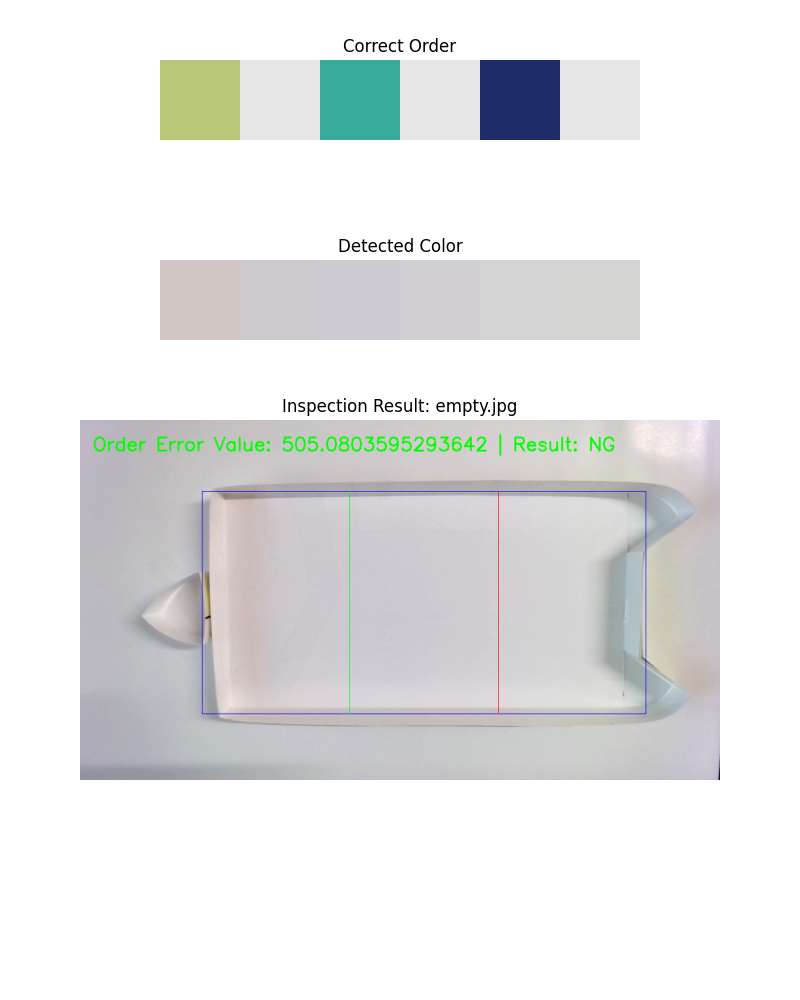
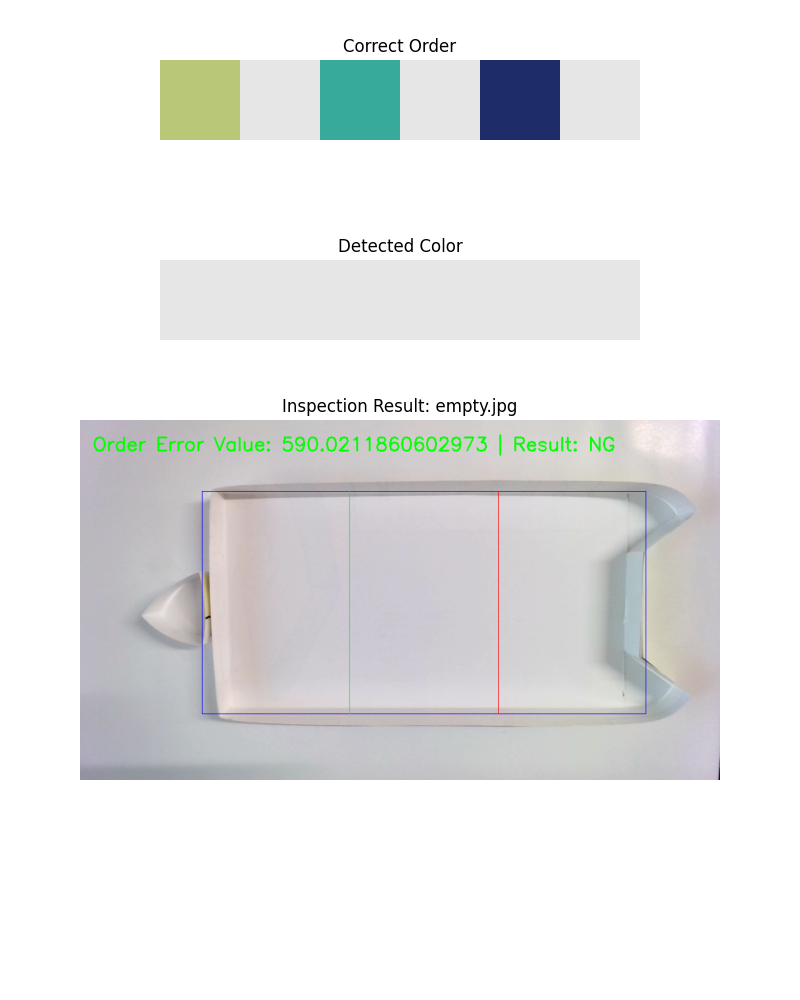
add insp km3LandP

Changed region(s): [[0.1875, 0.248, 0.5, 0.341], [0.375, 0.434, 0.625, 0.465]]

diff --git a/tissue_insp_km3Predict.py b/tissue_insp_km3Predict.py
@@ -1,0 +1,173 @@
+import cv2,os
+import numpy as np
+import pickle
+from sklearn.cluster import KMeans
+# from keras.api.applications import MobileNetV2
+# from keras.src.utils.image_utils import img_to_array
+# from keras.models import load_model
+import matplotlib.pyplot as plt
+
+# 定数設定
+IMG_WIDTH, IMG_HEIGHT = 1024, 576
+MODEL_PATH = "model_km3_Cdora.pkl"  # 事前学習済みの正解モデル
+DIST_TH = 100   # OK/NG判定基準
+
+# 検査する画像（入力）
+IMAGE_PATH = "./my_dir/tis_insp/Input/test_dra2.jpg"  # テスト画像
+
+# 正しい順番（黄緑/白、水色/白、紺色/白）と比較  250306
+CORRECT_ORDER = [
+    #spl
+    # ((120, 200, 185), (230, 230, 230)),  # 黄緑/白
+    # ((155, 170, 55), (230, 230, 230)),  # 水色/白
+    # ((105, 45, 30), (230, 230, 230))     # 紺色/白
+    #dora
+    ((129, 171, 171), (214, 217, 226)),
+    ((191, 184, 130), (220, 220, 227)),
+    ((152, 157, 234), (218, 228, 235))
+]
+
+#ティッシュ色領域サイズ・座標
+TIS_W = 710
+TIS_H = 355
+W_L_EG = 195
+W_R_EG = W_L_EG + TIS_W
+H_T_EG = 115
+H_B_EG = H_T_EG + TIS_H
+
+
+
+# 学習済みモデルの読み込み
+with open(MODEL_PATH, "rb") as f:
+    kmeans = pickle.load(f)
+
+def get_dominant_colors(image):
+    """ 画像の主要色を取得 """
+    pixels = image.reshape(-1, 3)
+    labels = kmeans.predict(pixels)
+
+    #最も多く出現する色を主要色とする
+    counts = np.bincount(labels) 
+    main_color = kmeans.cluster_centers_[np.argmax(counts)].astype(int)
+
+    return tuple(main_color)    #250305
+
+
+def check_tissue_order(image):
+    """ ティッシュの上下の色ペアを取得し、並び順をチェック """
+    h, w = TIS_H, TIS_W
+    third_w = w // 3
+    # half_h = h // 2  # 上下分割
+    half_tis_w = third_w // 2
+
+    wid_mid_eg = W_L_EG + third_w
+    wid_rit_eg = W_R_EG - third_w
+
+    # 3つのティッシュ領域を取得
+    tissues = [
+        image[H_T_EG:H_B_EG, W_L_EG:wid_mid_eg],       # 左
+        image[H_T_EG:H_B_EG, wid_mid_eg:wid_rit_eg],  # 中央
+        image[H_T_EG:H_B_EG, wid_rit_eg:W_R_EG]      # 右
+    ]
+
+    detected_colors = []
+    
+    for tissue in tissues:
+        # top_half = tissue[0:half_h, :]  # 上半分
+        # bottom_half = tissue[half_h:h, :]  # 下半分  #250304
+
+        top_half = tissue[:, 0:half_tis_w]  # ティッシュの上半分カラー
+        bottom_half = tissue[:, half_tis_w:third_w]  # ティッシュの下半分
+
+        # print("TOP: ",top_half)
+        # print("BOTTOM: ",bottom_half)
+
+        top_color = get_dominant_colors(top_half)         #250304
+        bottom_color = get_dominant_colors(bottom_half)   #250304
+
+        # detected_colors.append((tuple(top_color[0]), tuple(bottom_color[0])))
+        detected_colors.append((top_color, bottom_color))  # 1ペアのみ記録    #250305
+
+
+    # error = detected_colors != correct_order
+    error = sum(np.linalg.norm(np.array(detected_colors) - np.array(CORRECT_ORDER), axis=1))
+    error = np.linalg.norm(error)
+
+    return error, detected_colors
+
+# メイン処理
+def inspect_tissue(image_path):
+    # 画像を読み込む
+    image_bgr = cv2.imread(image_path)
+    if image_bgr is None:
+        print("画像が読み込めません")
+        return
+
+    target_name=os.path.basename(image_path)  #250221
+
+    # 画像を読み込んで判定
+    # image_resized = cv2.resize(image, (1024, 576))
+    error_num, detected_colors = check_tissue_order(image_bgr)  #250306
+    # error = error_num > DIST_TH     #250307
+
+    print("検出された色ペア:", convert_tuple(detected_colors) )   #250304
+
+    if error_num > DIST_TH:
+        error = "NG"
+    else:
+        error = "OK"
+
+    print("並び順エラー値:", error_num)
+    print("並び順 判定:", error)
+
+    # 結果を描画
+    #正規化(plt表示用)
+    color = np.array(convert_tuple(detected_colors), dtype=float) / 255
+    crct_order = np.array(convert_tuple(CORRECT_ORDER), dtype=float) / 255
+
+    #配列を1次元に
+    flat_color = np.array(color).reshape(-1,3)    #250304
+    flat_crct_order = np.array(crct_order).reshape(-1,3)    #250304
+
+    #BGR->RGB(plt表示用)
+    flat_crct_order_rgb = flat_crct_order[:,[2,1,0]]         #250306
+    flat_color_rgb = flat_color[:,[2,1,0]]         #250306
+
+    fig, ax = plt.subplots(3, 1, figsize=(8, 10))       #250306
+    ax[0].imshow([flat_crct_order_rgb])  # 1行の画像として表示    #250304
+    ax[0].axis("off")  # 軸を非表示
+    ax[0].set_title("Correct Order")
+    ax[0].set_position([0.2,0.6,0.6,0.6])
+
+    ax[1].imshow([flat_color_rgb])  # 1行の画像として表示    #250304
+    ax[1].axis("off")  # 軸を非表示
+    ax[1].set_title("Detected Color")
+    ax[1].set_position([0.2,0.4,0.6,0.6])
+
+
+    result_text = f"Order Error Value: {error_num} | Result: {error}" #250303, 向き: {orientation}"
+    imgcv2=cv2.putText(image_bgr, result_text, (20, 50), cv2.FONT_HERSHEY_SIMPLEX, 1, (0, 255, 0), 2)
+
+    img_rec=cv2.rectangle(image_bgr, (W_L_EG, H_T_EG), (W_R_EG, H_B_EG), (255, 0, 0))         #250304
+    img_lin1=cv2.line(image_bgr,( W_L_EG+TIS_W//3, H_T_EG),(W_L_EG+TIS_W//3,H_B_EG ),(0,255,0))
+    img_lin2=cv2.line(image_bgr,(W_R_EG-TIS_W//3, H_T_EG),(W_R_EG-TIS_W//3,H_B_EG),(0,0,255))
+    # img_tar=cv2.imshow("Inspection Result", image_bgr)
+    
+    ax[2].imshow(img_rec)
+    ax[2].imshow(img_lin1)
+    ax[2].imshow(img_lin2)
+    ax[2].imshow(image_bgr[:, :, [2,1,0]])
+    ax[2].set_title("Inspection Result: "+target_name)
+    ax[2].axis("off")
+    ax[2].set_position([0.1,0,0.8,0.8])
+    
+    plt.savefig("./my_dir/tis_insp/res_"+target_name+".png") #250221
+    plt.show()
+
+# 入れ子タプルをNp.int64など型表示をなくす処理
+def convert_tuple(tpl):
+    return tuple(convert_tuple(x) if isinstance(x, tuple) else int(x) for x in tpl)
+
+
+#メイン
+inspect_tissue(IMAGE_PATH)

diff --git a/tissue_insp_km3LearnC.py b/tissue_insp_km3LearnC.py
@@ -1,0 +1,141 @@
+import cv2,os
+import numpy as np
+import pickle
+from sklearn.cluster import KMeans
+# from keras.api.applications import MobileNetV2
+# from keras.src.utils.image_utils import img_to_array
+# from keras.models import load_model
+import matplotlib.pyplot as plt
+
+# 定数設定
+IMG_WIDTH, IMG_HEIGHT = 1024, 576
+MODEL_PATH = "model_km3_Cdora.pkl"  # 事前学習済みの正解モデル
+NUM_CLUSTERS = 2  # k-means で分類する色の数
+
+#ティッシュ色領域サイズ・座標
+TIS_W = 710
+TIS_H = 355
+W_L_EG = 195
+W_R_EG = W_L_EG + TIS_W
+H_T_EG = 115
+H_B_EG = H_T_EG + TIS_H
+
+# 検査する画像（入力）
+IMAGE_PATH = "./my_dir/tis_insp/Input/test_dra1.jpg"  # テスト画像
+
+
+""" 画像の主要色を取得 """
+def get_dominant_colors(image):
+
+    kmeans = KMeans(n_clusters=NUM_CLUSTERS, random_state=42, n_init=10)
+    pixels = image.reshape(-1, 3)
+    labels = kmeans.fit_predict(pixels)
+
+    #最も多く出現する色を主要色とする
+    counts = np.bincount(labels) 
+    main_color = kmeans.cluster_centers_[np.argmax(counts)].astype(int)
+
+    return tuple(main_color)    #250305
+
+
+def check_tissue_order(image):
+    """ ティッシュの上下の色ペアを取得し、並び順をチェック """
+    h, w = TIS_H, TIS_W
+    third_w = w // 3
+    # half_h = h // 2  # 上下分割
+    half_tis_w = third_w // 2
+
+    wid_mid_eg = W_L_EG + third_w
+    wid_rit_eg = W_R_EG - third_w
+
+    # 3つのティッシュ領域を取得
+    tissues = [
+        image[H_T_EG:H_B_EG, W_L_EG:wid_mid_eg],       # 左
+        image[H_T_EG:H_B_EG, wid_mid_eg:wid_rit_eg],  # 中央
+        image[H_T_EG:H_B_EG, wid_rit_eg:W_R_EG]      # 右
+    ]
+
+    detected_colors = []
+    
+    for tissue in tissues:
+        top_half = tissue[:, 0:half_tis_w]  # ティッシュの上半分カラー
+        bottom_half = tissue[:, half_tis_w:third_w]  # ティッシュの下半分
+
+        # print("TOP: ",top_half)
+        # print("BOTTOM: ",bottom_half)
+
+        top_color = get_dominant_colors(top_half)         #250304
+        bottom_color = get_dominant_colors(bottom_half)   #250304
+
+        # detected_colors.append((tuple(top_color[0]), tuple(bottom_color[0])))
+        detected_colors.append((top_color, bottom_color))  # 1ペアのみ記録    #250305
+
+    return detected_colors
+
+
+# 入れ子タプルをNp.int64など型表示をなくす処理
+def convert_tuple(tpl):
+    return tuple(convert_tuple(x) if isinstance(x, tuple) else int(x) for x in tpl)
+
+
+#メイン
+# 画像を読み込む
+image_bgr = cv2.imread(IMAGE_PATH)
+if image_bgr is None:
+    print("画像が読み込めません")
+    # return
+
+target_name=os.path.basename(IMAGE_PATH)
+
+# 画像を読み込んで判定
+detected_colors = check_tissue_order(image_bgr)  #250306
+
+# データを numpy 配列に変換
+X = np.array([color for pair in detected_colors for color in pair])
+
+# K-Means クラスタリングで学習
+kmeans = KMeans(n_clusters=6, random_state=42, n_init=5)
+kmeans.fit(X)
+
+# # 学習済みモデルを保存
+with open(MODEL_PATH, "wb") as f:
+    pickle.dump(kmeans, f)
+
+print("学習完了！モデルを保存しました。")
+
+
+#### 結果の表示 ####
+print("検出された色ペア:", convert_tuple(detected_colors) )   #250304
+
+#正規化(plt表示用)
+color = np.array(convert_tuple(detected_colors), dtype=float) / 255
+
+#配列を1次元に
+flat_color = np.array(color).reshape(-1,3)    #250304
+
+#BGR->RGB(plt表示用)
+flat_color_rgb = flat_color[:,[2,1,0]]         #250306
+
+# 結果を描画
+fig, ax = plt.subplots(2, 1, figsize=(8, 10))       #250306
+
+ax[0].imshow([flat_color_rgb])  # 1行の画像として表示    #250304
+ax[0].axis("off")  # 軸を非表示
+ax[0].set_title("Correct Color")
+ax[0].set_position([0.2,0.4,0.6,0.6])
+
+img_rec=cv2.rectangle(image_bgr, (W_L_EG, H_T_EG), (W_R_EG, H_B_EG), (255, 0, 0))         #250304
+img_lin1=cv2.line(image_bgr,( W_L_EG+TIS_W//3, H_T_EG),(W_L_EG+TIS_W//3,H_B_EG ),(0,255,0))
+img_lin2=cv2.line(image_bgr,(W_R_EG-TIS_W//3, H_T_EG),(W_R_EG-TIS_W//3,H_B_EG),(0,0,255))
+# img_tar=cv2.imshow("Inspection Result", image_bgr)
+
+ax[1].imshow(img_rec)
+ax[1].imshow(img_lin1)
+ax[1].imshow(img_lin2)
+ax[1].imshow(image_bgr[:, :, [2,1,0]])
+ax[1].set_title("Inspection Result: "+target_name)
+ax[1].axis("off")
+ax[1].set_position([0.1,0,0.8,0.8])
+
+plt.savefig("./my_dir/tis_insp/res_"+target_name+".png") #250221
+plt.show()

diff --git a/tissue_insp_km3Learn.py b/tissue_insp_km3Learn.py
@@ -1,0 +1,36 @@
+import cv2,os
+import numpy as np
+import pickle
+from sklearn.cluster import KMeans
+# from keras.api.applications import MobileNetV2
+# from keras.src.utils.image_utils import img_to_array
+# from keras.models import load_model
+import matplotlib.pyplot as plt
+
+# 定数設定
+IMG_WIDTH, IMG_HEIGHT = 1024, 576
+NUM_CLUSTERS = 2  # k-means で分類する色の数
+MODEL_PATH = "model_km3.pkl"  # 事前学習済みの向き判定モデル
+DIST_TH = 100
+
+# 正しい順番（黄緑/白、水色/白、紺色/白）と比較  250306
+correct_colors = [
+    ((120, 200, 185), (230, 230, 230)),  # 黄緑/白
+    ((155, 170, 55), (230, 230, 230)),  # 水色/白
+    ((105, 45, 30), (230, 230, 230))     # 紺色/白
+]
+
+# データを numpy 配列に変換
+X = np.array([color for pair in correct_colors for color in pair])
+
+print(X)
+
+# K-Means クラスタリングで学習
+kmeans = KMeans(n_clusters=6, random_state=42, n_init=10)
+kmeans.fit(X)
+
+# 学習済みモデルを保存
+with open(MODEL_PATH, "wb") as f:
+    pickle.dump(kmeans, f)
+
+print("学習完了！モデルを保存しました。")
